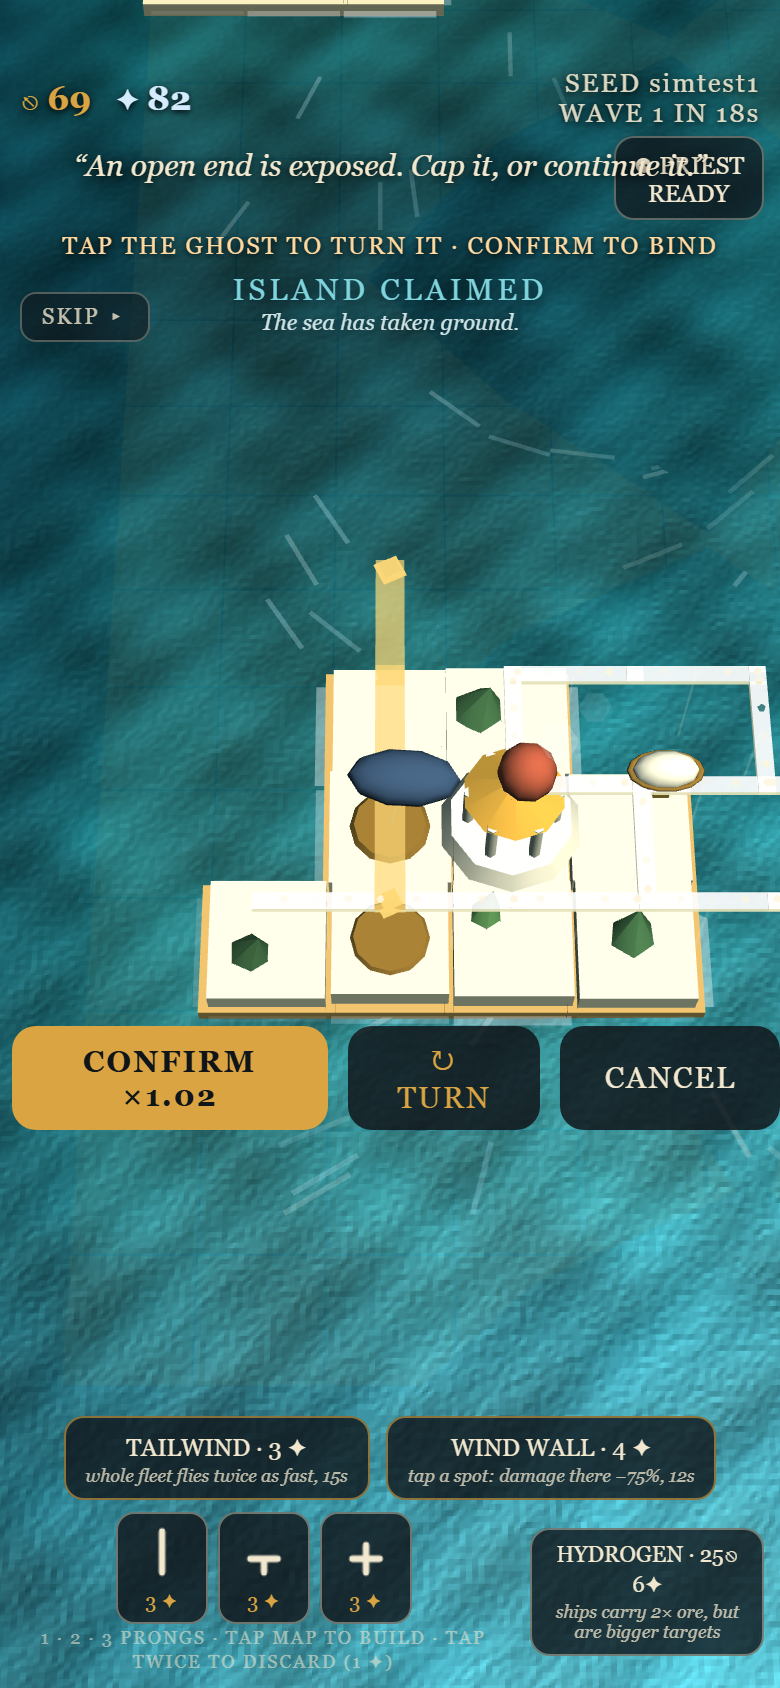
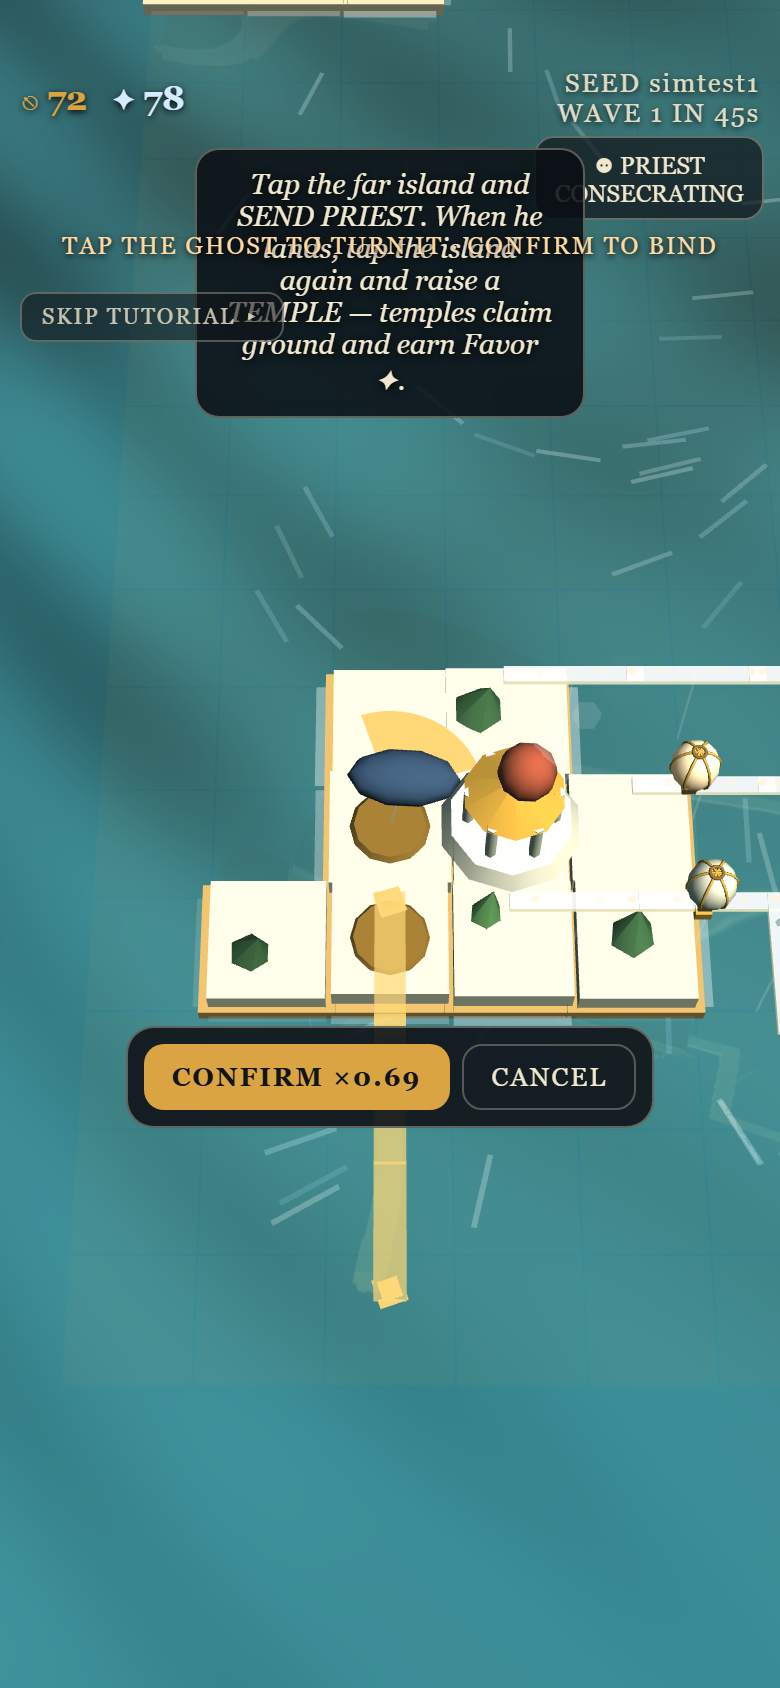
feat: confirm row wears the menu dress; twin turn buttons; chip moved
Player-directed:
- The CONFIRM/TURN/CANCEL row is now the same visual language as the
  context menu: one dark bordered panel, same button styling, gold
  CONFIRM as the primary. Panel only exists while a ghost is up.
- TURN is now TWO buttons - turn left and turn right - for both piece
  orientations and bolt aiming (45-degree steps either way).
- PRIEST READY chip moves from upper right to lower right (the bottom
  belongs to the map now, and the top corner was crowding the wave
  clock). Ticker line drops below the tutorial pill so they never
  collide.

Claude-Session: https://claude.ai/code/session_01NjEpo5MjLFBKVLFNZET6tb

diff --git a/index.html b/index.html
@@ -43,7 +43,7 @@
   .res .favorlabel { color: #d5ecff; }
   #wavechip { font-size: 13px; letter-spacing: 1px; opacity: 0.9; text-align: right; }
   #priestchip {
-    pointer-events: auto; position: absolute; top: calc(var(--topsafe) + 34px); right: 8px;
+    pointer-events: auto; position: absolute; bottom: calc(env(safe-area-inset-bottom, 0px) + 14px); right: 10px;
     background: rgba(16,21,26,0.72); border: 1px solid rgba(242,232,207,0.35);
     border-radius: 10px; padding: 5px 9px; font-size: 12px; text-align: center;
   }
@@ -90,7 +90,7 @@
   #banner.show { pointer-events: auto; cursor: pointer; }
   #ticker.show { pointer-events: auto; cursor: pointer; }
   #ticker {
-    position: absolute; top: calc(var(--topsafe) + 82px);
+    position: absolute; top: calc(var(--topsafe) + 170px);
     left: 0; right: 0; text-align: center;
     font-size: 12px; letter-spacing: 1px; color: #ffd9a0; pointer-events: none;
     text-shadow: 0 1px 3px #000; opacity: 0; transition: opacity 0.3s;
@@ -139,18 +139,22 @@
     font-family: inherit; font-size: 11px; padding: 6px 8px;
   }
   .sidebtn:disabled { opacity: 0.35; }
+  /* the confirm row wears the SAME dress as the context menu: one dark
+     bordered panel, same button language (player-directed) */
   #confirmrow {
-    display: flex; gap: 10px; justify-content: center; min-height: 40px;
-    position: absolute; z-index: 6; pointer-events: none;
+    display: none;
+    position: absolute; z-index: 6;
+    background: rgba(16,21,26,0.92); border: 1px solid rgba(242,232,207,0.35);
+    border-radius: 14px; padding: 8px; gap: 6px;
   }
-  #confirmrow button { pointer-events: auto; }
+  #confirmrow.shown { display: flex; justify-content: center; }
   #confirmrow button {
-    pointer-events: auto; font-family: inherit; font-size: 15px; letter-spacing: 1px;
-    border-radius: 12px; padding: 8px 22px; border: none;
+    pointer-events: auto; font-family: inherit; font-size: 13px; letter-spacing: 1px;
+    border-radius: 10px; padding: 8px 14px;
+    background: none; color: var(--ivory); border: 1px solid rgba(242,232,207,0.3);
   }
-  #btn-confirm { background: var(--gold); color: var(--ink); font-weight: bold; }
-  #btn-rotate { background: rgba(16,21,26,0.85); color: var(--gold); border: 1px solid rgba(217,164,65,0.6); }
-  #btn-cancel { background: rgba(16,21,26,0.85); color: var(--ivory); border: 1px solid rgba(242,232,207,0.4); }
+  #btn-confirm { background: var(--gold) !important; color: var(--ink) !important; font-weight: bold; border: none !important; }
+  #btn-rotate-l, #btn-rotate { color: var(--gold); border-color: rgba(217,164,65,0.6); font-size: 17px; padding: 6px 12px; }
   .hidden { display: none !important; }
 
   /* ---------- build menu ---------- */
@@ -235,7 +239,8 @@
            dialog. The whole screen belongs to the map. -->
       <div id="confirmrow">
         <button id="btn-confirm" class="hidden">CONFIRM</button>
-        <button id="btn-rotate" class="hidden">&#8635; TURN</button>
+        <button id="btn-rotate-l" class="hidden" title="turn left">&#8634;</button>
+        <button id="btn-rotate" class="hidden" title="turn right">&#8635;</button>
         <button id="btn-cancel" class="hidden">CANCEL</button>
       </div>
       <div id="hand" class="hidden"></div>
@@ -6547,7 +6552,7 @@ function initUI(state) {
   const $ = id => document.getElementById(id);
   UI.els = {
     supply: $('supply'), favor: $('favor'), seedchip: $('seedchip'), waveinfo: $('waveinfo'),
-    hand: $('hand'), confirm: $('btn-confirm'), cancel: $('btn-cancel'), rotate: $('btn-rotate'),
+    hand: $('hand'), confirm: $('btn-confirm'), cancel: $('btn-cancel'), rotate: $('btn-rotate'), rotateL: $('btn-rotate-l'),
     banner: $('banner'), tutorial: $('tutorial'), ticker: $('ticker'),
     priestchip: $('priestchip'), buildmenu: $('buildmenu'), codex: $('codex')
   };
@@ -6557,7 +6562,8 @@ function initUI(state) {
   buildHand(state);
 
   UI.els.confirm.addEventListener('click', () => confirmPlacement(state));
-  UI.els.rotate.addEventListener('click', () => cyclePlacement(state));
+  UI.els.rotate.addEventListener('click', () => cyclePlacement(state, 1));
+  UI.els.rotateL.addEventListener('click', () => cyclePlacement(state, -1));
   UI.els.cancel.addEventListener('click', () => cancelPlacement());
   // (the powers bar is gone, player-directed: Tailwind and the Wall live
   // in the context menu where they are valid actions; the fleet upgrade
@@ -6785,17 +6791,19 @@ function selectSocket(state, socket) {
   return true;
 }
 
-function cyclePlacement(state) {
-  // aiming a bolt at placement: TURN traverses the wedge in 45° steps
+function cyclePlacement(state, dir) {
+  dir = dir || 1;
+  // aiming a bolt at placement: the turn buttons traverse the wedge in
+  // 45° steps, either direction
   if (UI.structMode) {
     if (UI.structMode.type !== 'bolt') return;
-    UI.structMode.facing += Math.PI / 4;
+    UI.structMode.facing += dir * Math.PI / 4;
     showStructPreview(state, 'A', 'bolt', UI.structMode.at.cell, UI.structMode.facing);
     Events.emit('uiCycle', {});
     return;
   }
   if (!UI.placements.length) return;
-  UI.orient = (UI.orient + 1) % UI.placements.length;
+  UI.orient = (UI.orient + dir + UI.placements.length) % UI.placements.length;
   showPreview(state, UI.placements[UI.orient].segs, true);
   updateGhostMultiplier(state);
   Events.emit('uiCycle', {});
@@ -6862,6 +6870,8 @@ function setConfirmVisible(v, anchorCell) {
   const canTurn = UI.structMode ? UI.structMode.type === 'bolt'
     : (UI.placements && UI.placements.length >= 2);
   UI.els.rotate.classList.toggle('hidden', !v || !canTurn);
+  UI.els.rotateL.classList.toggle('hidden', !v || !canTurn);
+  document.getElementById('confirmrow').classList.toggle('shown', v);
   if (v) UI.els.confirm.textContent = 'CONFIRM';
   if (v) placeConfirmRow(anchorCell);
 }

diff --git a/shell.html b/shell.html
@@ -43,7 +43,7 @@
   .res .favorlabel { color: #d5ecff; }
   #wavechip { font-size: 13px; letter-spacing: 1px; opacity: 0.9; text-align: right; }
   #priestchip {
-    pointer-events: auto; position: absolute; top: calc(var(--topsafe) + 34px); right: 8px;
+    pointer-events: auto; position: absolute; bottom: calc(env(safe-area-inset-bottom, 0px) + 14px); right: 10px;
     background: rgba(16,21,26,0.72); border: 1px solid rgba(242,232,207,0.35);
     border-radius: 10px; padding: 5px 9px; font-size: 12px; text-align: center;
   }
@@ -90,7 +90,7 @@
   #banner.show { pointer-events: auto; cursor: pointer; }
   #ticker.show { pointer-events: auto; cursor: pointer; }
   #ticker {
-    position: absolute; top: calc(var(--topsafe) + 82px);
+    position: absolute; top: calc(var(--topsafe) + 170px);
     left: 0; right: 0; text-align: center;
     font-size: 12px; letter-spacing: 1px; color: #ffd9a0; pointer-events: none;
     text-shadow: 0 1px 3px #000; opacity: 0; transition: opacity 0.3s;
@@ -139,18 +139,22 @@
     font-family: inherit; font-size: 11px; padding: 6px 8px;
   }
   .sidebtn:disabled { opacity: 0.35; }
+  /* the confirm row wears the SAME dress as the context menu: one dark
+     bordered panel, same button language (player-directed) */
   #confirmrow {
-    display: flex; gap: 10px; justify-content: center; min-height: 40px;
-    position: absolute; z-index: 6; pointer-events: none;
+    display: none;
+    position: absolute; z-index: 6;
+    background: rgba(16,21,26,0.92); border: 1px solid rgba(242,232,207,0.35);
+    border-radius: 14px; padding: 8px; gap: 6px;
   }
-  #confirmrow button { pointer-events: auto; }
+  #confirmrow.shown { display: flex; justify-content: center; }
   #confirmrow button {
-    pointer-events: auto; font-family: inherit; font-size: 15px; letter-spacing: 1px;
-    border-radius: 12px; padding: 8px 22px; border: none;
+    pointer-events: auto; font-family: inherit; font-size: 13px; letter-spacing: 1px;
+    border-radius: 10px; padding: 8px 14px;
+    background: none; color: var(--ivory); border: 1px solid rgba(242,232,207,0.3);
   }
-  #btn-confirm { background: var(--gold); color: var(--ink); font-weight: bold; }
-  #btn-rotate { background: rgba(16,21,26,0.85); color: var(--gold); border: 1px solid rgba(217,164,65,0.6); }
-  #btn-cancel { background: rgba(16,21,26,0.85); color: var(--ivory); border: 1px solid rgba(242,232,207,0.4); }
+  #btn-confirm { background: var(--gold) !important; color: var(--ink) !important; font-weight: bold; border: none !important; }
+  #btn-rotate-l, #btn-rotate { color: var(--gold); border-color: rgba(217,164,65,0.6); font-size: 17px; padding: 6px 12px; }
   .hidden { display: none !important; }
 
   /* ---------- build menu ---------- */
@@ -235,7 +239,8 @@
            dialog. The whole screen belongs to the map. -->
       <div id="confirmrow">
         <button id="btn-confirm" class="hidden">CONFIRM</button>
-        <button id="btn-rotate" class="hidden">&#8635; TURN</button>
+        <button id="btn-rotate-l" class="hidden" title="turn left">&#8634;</button>
+        <button id="btn-rotate" class="hidden" title="turn right">&#8635;</button>
         <button id="btn-cancel" class="hidden">CANCEL</button>
       </div>
       <div id="hand" class="hidden"></div>

diff --git a/src/19_ui.js b/src/19_ui.js
@@ -26,7 +26,7 @@ function initUI(state) {
   const $ = id => document.getElementById(id);
   UI.els = {
     supply: $('supply'), favor: $('favor'), seedchip: $('seedchip'), waveinfo: $('waveinfo'),
-    hand: $('hand'), confirm: $('btn-confirm'), cancel: $('btn-cancel'), rotate: $('btn-rotate'),
+    hand: $('hand'), confirm: $('btn-confirm'), cancel: $('btn-cancel'), rotate: $('btn-rotate'), rotateL: $('btn-rotate-l'),
     banner: $('banner'), tutorial: $('tutorial'), ticker: $('ticker'),
     priestchip: $('priestchip'), buildmenu: $('buildmenu'), codex: $('codex')
   };
@@ -36,7 +36,8 @@ function initUI(state) {
   buildHand(state);
 
   UI.els.confirm.addEventListener('click', () => confirmPlacement(state));
-  UI.els.rotate.addEventListener('click', () => cyclePlacement(state));
+  UI.els.rotate.addEventListener('click', () => cyclePlacement(state, 1));
+  UI.els.rotateL.addEventListener('click', () => cyclePlacement(state, -1));
   UI.els.cancel.addEventListener('click', () => cancelPlacement());
   // (the powers bar is gone, player-directed: Tailwind and the Wall live
   // in the context menu where they are valid actions; the fleet upgrade
@@ -264,17 +265,19 @@ function selectSocket(state, socket) {
   return true;
 }
 
-function cyclePlacement(state) {
-  // aiming a bolt at placement: TURN traverses the wedge in 45° steps
+function cyclePlacement(state, dir) {
+  dir = dir || 1;
+  // aiming a bolt at placement: the turn buttons traverse the wedge in
+  // 45° steps, either direction
   if (UI.structMode) {
     if (UI.structMode.type !== 'bolt') return;
-    UI.structMode.facing += Math.PI / 4;
+    UI.structMode.facing += dir * Math.PI / 4;
     showStructPreview(state, 'A', 'bolt', UI.structMode.at.cell, UI.structMode.facing);
     Events.emit('uiCycle', {});
     return;
   }
   if (!UI.placements.length) return;
-  UI.orient = (UI.orient + 1) % UI.placements.length;
+  UI.orient = (UI.orient + dir + UI.placements.length) % UI.placements.length;
   showPreview(state, UI.placements[UI.orient].segs, true);
   updateGhostMultiplier(state);
   Events.emit('uiCycle', {});
@@ -341,6 +344,8 @@ function setConfirmVisible(v, anchorCell) {
   const canTurn = UI.structMode ? UI.structMode.type === 'bolt'
     : (UI.placements && UI.placements.length >= 2);
   UI.els.rotate.classList.toggle('hidden', !v || !canTurn);
+  UI.els.rotateL.classList.toggle('hidden', !v || !canTurn);
+  document.getElementById('confirmrow').classList.toggle('shown', v);
   if (v) UI.els.confirm.textContent = 'CONFIRM';
   if (v) placeConfirmRow(anchorCell);
 }

diff --git a/buildlog/BUILDLOG.md b/buildlog/BUILDLOG.md
@@ -144,6 +144,7 @@ ENTRY TEMPLATE — copy for each session.
 | 54 | **Winner study applied (a/b/c) + powers into the menu (player-directed):** researched the design-phase winners (Chonky Corgis, Hearthline): they win on ONE resonant mechanic, minute-mapped first sessions, charm, honest scope. design-intent.docx rewritten (492w, same 7 sections): ''one road, five jobs'' pillar, nine-tides constraint, first-session beat map, sweep+fairness as method; README mirrors it. Tailwind/Wind Wall moved into the thumb menu (wall casts on the tapped spot — better than arm-then-aim), hydrogen already in the yard dialog, bottom bar now EMPTY. Charm pass: tapping open water names the ruling Anemoi (Boreas/Notus/Eurus/Zephyrus) + strength | `7a75cfc` | feat: docs, menu powers, named winds |
 | 55 | **Power-discovery shimmer (planned follow-up from row 54):** first menu that shows the relocated TAILWIND / WIND WALL HERE buttons glints them 3× (gold pulse); marked seen once-ever at actual display | `6056702` | feat: one-time power shimmer |
 | 56 | **Wind Wall de-domed (player: it hides everything it covers):** the sheltering dome occluded its own contents; now a bright ground ring at the true radius + swirling rim posts, breathing, fading over its final 2s — contents fully visible | `8112de7` | fix: wall is a boundary |
+| 57 | **Guided hand-holding tutorial (player: people don''t understand what to do):** timed lines → a step MACHINE with a pulsing ring + pointing finger at the exact touch target; steps gate on real actions (path laid → delivery lands → consecration starts → yard built → gun built); the wave schedule slides while it runs (sims unaffected); once ever, SKIP exits. Tutorial text now sits in a dark bordered pill (was unreadable over water). Verified: step 1 renders with hand on the coast, input test passes with tutorial active | `80fc152` | feat: guided tutorial, readable pills |
 | 22 | **Favor income sweep** (`test/opt_income.js`, `opt_income2.js`): divisor-only sweep showed lean income causes death-spirals (lose temples → can't afford roads → segsA collapses to 10); pairing a leaner territory rate with a fatter territory-free baseline fixes it. Pairs [8,4] and [16,6] tie at 92; chose **divisor 16 + baseline 6/10s** because actives end at 24–31 Favor (every power cast competes with roads — the tension we wanted) vs 100+ spare at [8,4]. The baseline drip is rebuild insurance | `dfc95e5` | tune: favor income 16-divisor + 6 baseline, sweep-derived |
 | 21 | **Favor price sweep** (`test/opt_favor.js`): prices 1/2/3/5 score identically (avg 90 across 3 seeds) because temple-influence Favor income floods the price; at 5 active players end at 0 Favor (powers become unaffordable — the sim can't see this since the script never casts); at 8 networks starve on 2 of 3 seeds. **Chose 3**: quality identical to 1, reserves halved, price felt, powers budget preserved. Flagged follow-up: Favor *income* (hundreds per match from temple influence) is the real oversupply lever | `3baed33` | tune: piece price 3 favor, sweep-derived |
 | 18 | **Toast discipline (player-directed):** every transient line (tutorial, banner, ticker, codex) is tap-to-dismiss; story/tutorial lines show once EVER via localStorage (skip marks them all seen); codex long-press slowed to ~1s so it stops firing accidentally | `fe63d05` | fix: dismissible, once-only story toasts |
